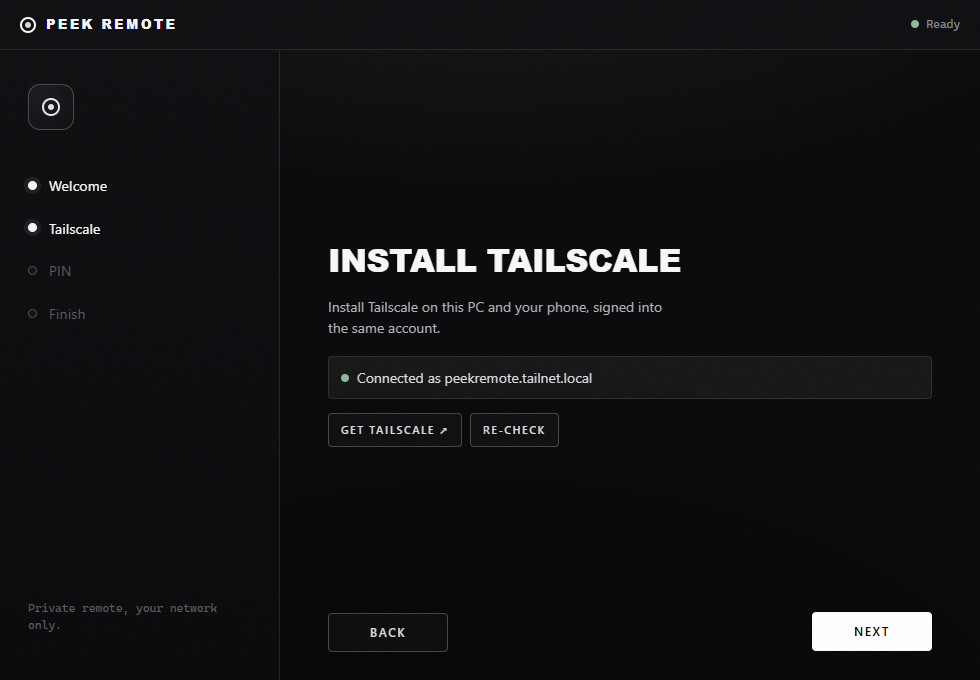
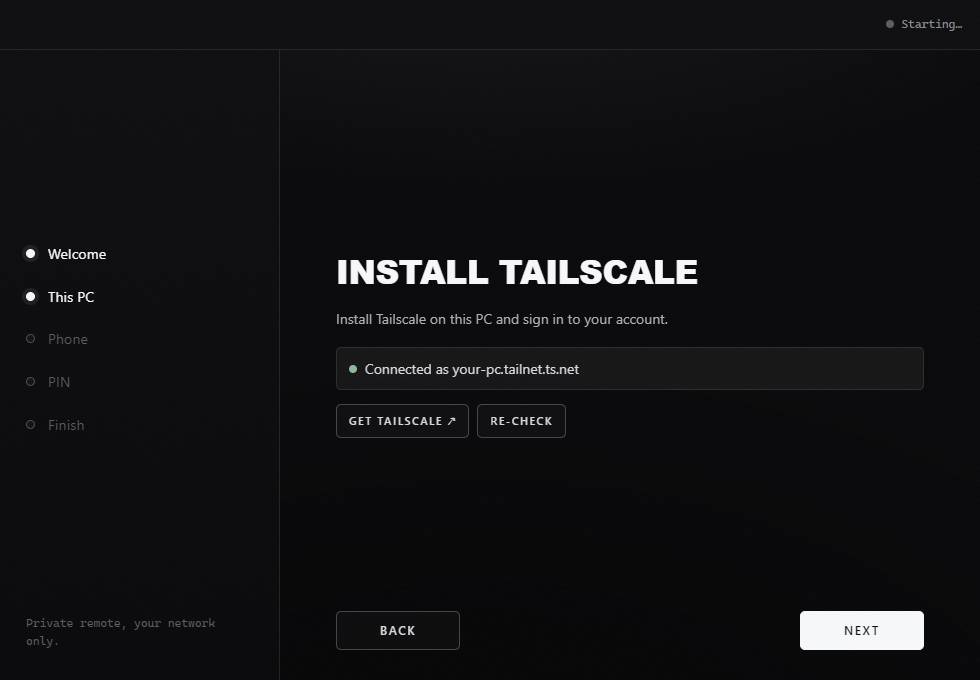
readme fix

diff --git a/desktop/scripts/capture-readme.js b/desktop/scripts/capture-readme.js
@@ -1,0 +1,95 @@
+"use strict";
+
+// Regenerates the README walkthrough screenshots from the REAL renderer UI,
+// driven by a stub bridge (capture-preload.js) that feeds only non-sensitive
+// placeholder data — no real PIN, QR login token, or tailnet hostname.
+//
+// Run:  npx electron desktop/scripts/capture-readme.js
+// Out:  docs/readme/01-welcome.png … 05-dashboard.png  (980x680)
+
+const path = require("path");
+const fs = require("fs");
+const { app, BrowserWindow } = require("electron");
+
+// Match the existing README assets exactly (1x device pixels).
+app.commandLine.appendSwitch("force-device-scale-factor", "1");
+
+const REPO_ROOT = path.join(__dirname, "..", "..");
+const OUT_DIR = path.join(REPO_ROOT, "docs", "readme");
+const RENDERER = path.join(__dirname, "..", "renderer", "index.html");
+
+const W = 980;
+const H = 680;
+const sleep = (ms) => new Promise((r) => setTimeout(r, ms));
+
+async function capture(win, name) {
+  await sleep(120); // let the latest paint flush
+  const img = await win.webContents.capturePage();
+  const out = path.join(OUT_DIR, name);
+  fs.writeFileSync(out, img.toPNG());
+  console.log("saved", name);
+}
+
+const run = (win, js) => win.webContents.executeJavaScript(js, true);
+
+async function main() {
+  const win = new BrowserWindow({
+    width: W,
+    height: H,
+    useContentSize: true,
+    show: true,
+    backgroundColor: "#08080a",
+    webPreferences: {
+      preload: path.join(__dirname, "capture-preload.js"),
+      contextIsolation: true,
+      nodeIntegration: false,
+      sandbox: false,
+      backgroundThrottling: false,
+    },
+  });
+
+  await win.loadFile(RENDERER);
+  // boot() runs on load and shows onboarding at step 0 (Welcome).
+  await sleep(1800); // welcome intro animation settles
+  await capture(win, "01-welcome.png");
+
+  // Step 1 — Install Tailscale (async status resolves to "Connected as …").
+  await run(win, `document.getElementById('onb-next').click();`);
+  await sleep(1100);
+  await capture(win, "02-tailscale.png");
+
+  // Step 2 — Set up your phone (the new step, between Tailscale and PIN).
+  await run(win, `document.getElementById('onb-next').click();`);
+  await sleep(900);
+  await capture(win, "03-phone.png");
+
+  // Step 3 — Set a PIN. Type a fabricated 6-digit PIN and let it mask to dots.
+  await run(win, `document.getElementById('onb-next').click();`);
+  await sleep(700);
+  await run(
+    win,
+    `(() => {
+       const i = document.getElementById('pin-input');
+       i.value = '428190';
+       i.dispatchEvent(new Event('input', { bubbles: true }));
+     })();`
+  );
+  await sleep(2300); // per-digit reveal (2s) lapses → all cells show ●
+  await capture(win, "04-pin.png");
+
+  // Final — the panel / pairing dashboard (QR + settings). With the backend up
+  // and Tailscale publishing, the real panel's status pill reads "Ready".
+  await run(win, `showPanel(true); setStatus('dot-ok', 'Ready');`);
+  await sleep(1300); // loadConnect() + panel-enter stagger
+  await capture(win, "05-dashboard.png");
+
+  win.destroy();
+  app.quit();
+}
+
+app.whenReady().then(() =>
+  main().catch((err) => {
+    console.error(err);
+    app.exit(1);
+  })
+);

diff --git a/desktop/scripts/capture-preload.js b/desktop/scripts/capture-preload.js
@@ -1,0 +1,64 @@
+"use strict";
+
+// Stub bridge used ONLY to capture README screenshots. It mirrors the shape of
+// src/preload.js but returns fixed, non-sensitive placeholder data so the
+// screenshots never leak a real PIN, QR login token, or tailnet hostname.
+const { contextBridge } = require("electron");
+const fs = require("fs");
+const path = require("path");
+
+const QR_SVG = fs.readFileSync(path.join(__dirname, "_qr_placeholder.svg"), "utf-8");
+
+// Generic, obviously-fake values.
+const FAKE_HOST = "your-pc.tailnet.ts.net";
+const APP_URL = `https://${FAKE_HOST}`;
+const now = () => Math.floor(Date.now() / 1000);
+
+contextBridge.exposeInMainWorld("peek", {
+  appInfo: async () => ({
+    version: "1.0.3",
+    platform: "win32",
+    isPackaged: false,
+    config: {
+      onboardingComplete: false,
+      hasPin: false,
+      autoStart: true,
+      autoCheckUpdates: true,
+    },
+    backend: { running: false, port: null },
+    elevation: { usesElevatedTasks: false, isElevatedTaskLaunch: false },
+  }),
+  tailscaleStatus: async () => ({
+    found: true,
+    loggedIn: true,
+    running: true,
+    dnsName: FAKE_HOST,
+  }),
+  connectInfo: async () => ({
+    ok: true,
+    info: {
+      tailscale_ready: true,
+      tailscale_found: true,
+      app_url: APP_URL,
+      connect_url: `${APP_URL}/connect`,
+      qr_svg: QR_SVG,
+      expires_at: now() + 1500, // shows "25:00" on the timer
+      ttl_seconds: 1800,
+      os: "windows",
+    },
+  }),
+  backendLogs: async () => [],
+  completeOnboarding: async () => ({ ok: true }),
+  restartOnboarding: async () => ({ ok: true }),
+  setAutoStart: async () => ({ ok: true, autoStart: true }),
+  setAutoCheckUpdates: async () => ({ ok: true }),
+  restartBackend: async () => ({ ok: true }),
+  checkForUpdate: async () => ({ ok: true, updateAvailable: false, version: "1.0.3" }),
+  downloadUpdate: async () => ({ ok: true }),
+  installUpdate: async () => ({ ok: true }),
+  openExternal: async () => {},
+  copy: async () => ({ ok: true }),
+  onBackendState: () => () => {},
+  onBackendLog: () => () => {},
+  onUpdateStatus: () => () => {},
+});

diff --git a/README.md b/README.md
@@ -52,22 +52,30 @@ Peek Remote guides you from first launch to phone pairing inside the desktop app
   <img src="docs/readme/01-welcome.png" alt="Peek Remote welcome screen" width="760" />
 </p>
 
-### 2. Check Tailscale
+### 2. Install Tailscale on this PC
 
 <p align="center">
   <img src="docs/readme/02-tailscale.png" alt="Peek Remote Tailscale setup step" width="760" />
 </p>
 
-### 3. Set a PIN
+### 3. Set up your phone
+
+Add your phone to the same Tailscale network so it can reach this computer.
 
 <p align="center">
-  <img src="docs/readme/03-pin.png" alt="Peek Remote PIN setup step" width="760" />
+  <img src="docs/readme/03-phone.png" alt="Peek Remote phone setup step" width="760" />
 </p>
 
-### 4. Pair your phone
+### 4. Set a PIN
 
 <p align="center">
-  <img src="docs/readme/04-dashboard.png" alt="Peek Remote QR pairing and settings screen" width="760" />
+  <img src="docs/readme/04-pin.png" alt="Peek Remote PIN setup step" width="760" />
+</p>
+
+### 5. Pair your phone
+
+<p align="center">
+  <img src="docs/readme/05-dashboard.png" alt="Peek Remote QR pairing and settings screen" width="760" />
 </p>
 
 ---